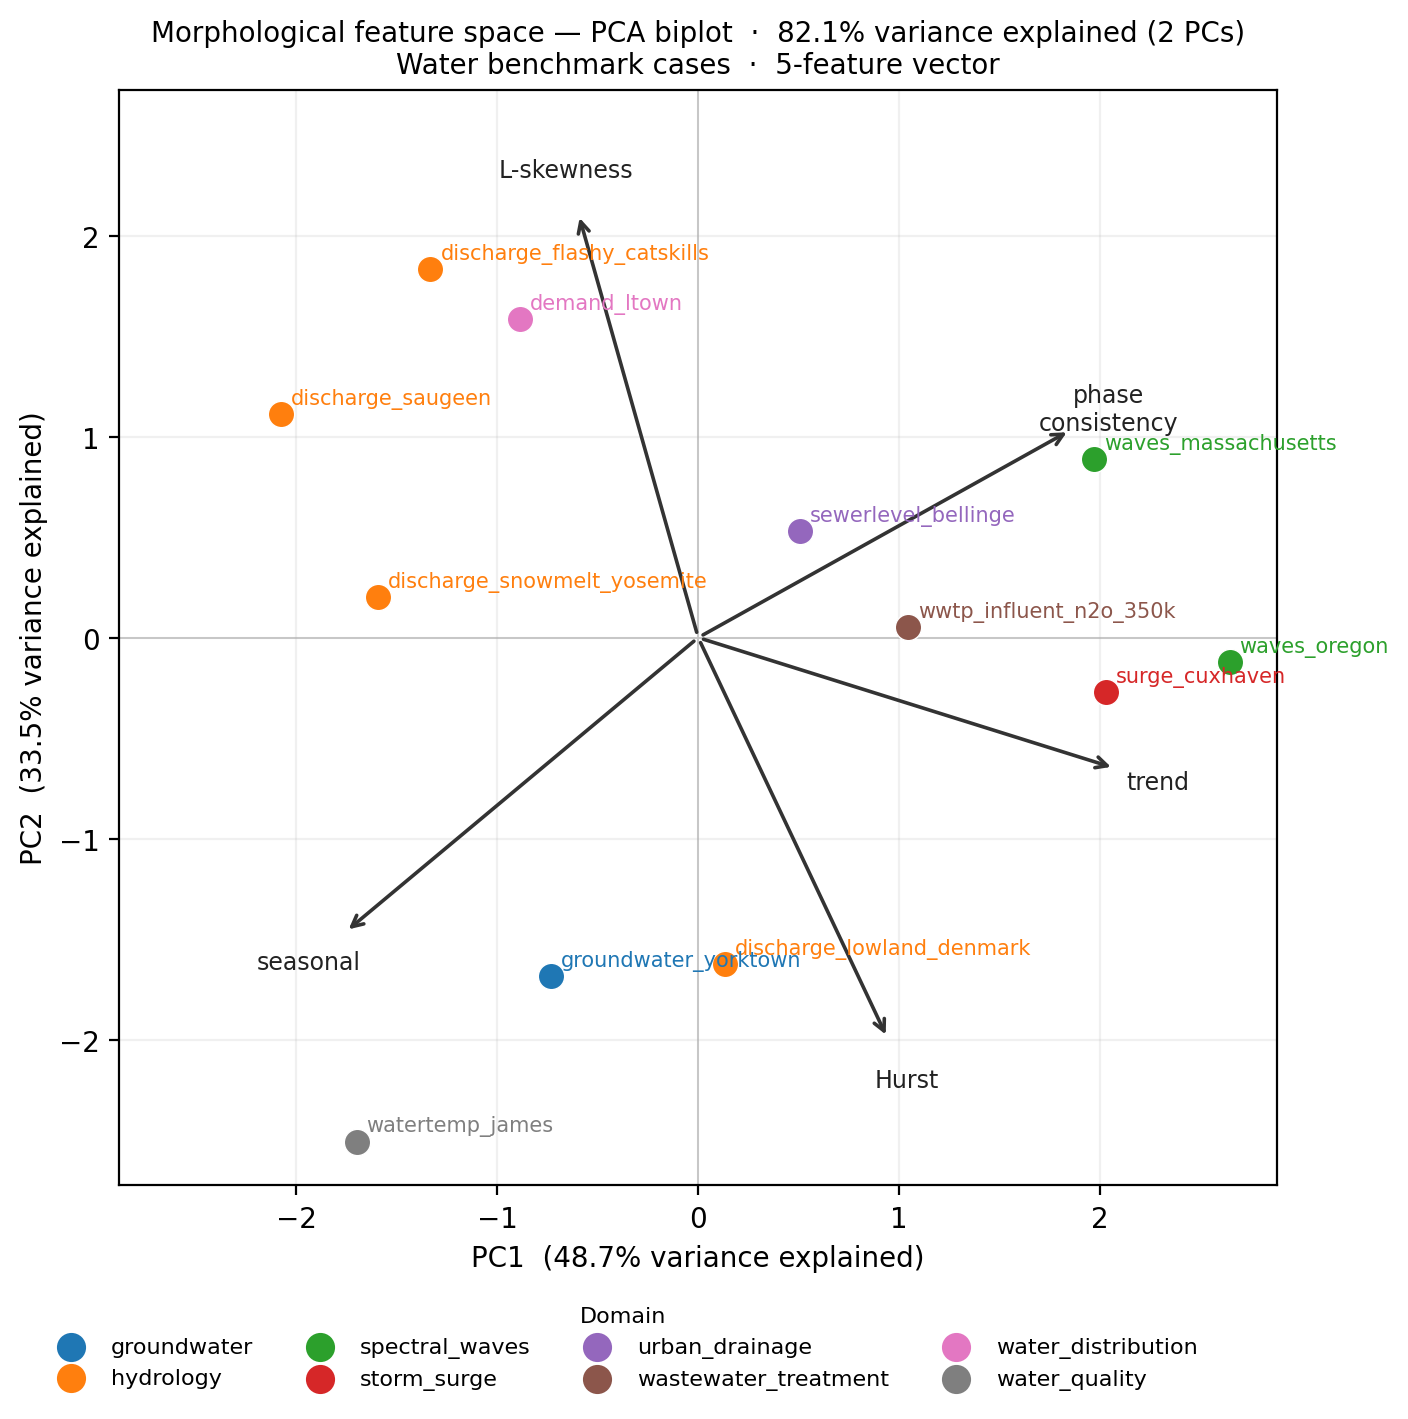
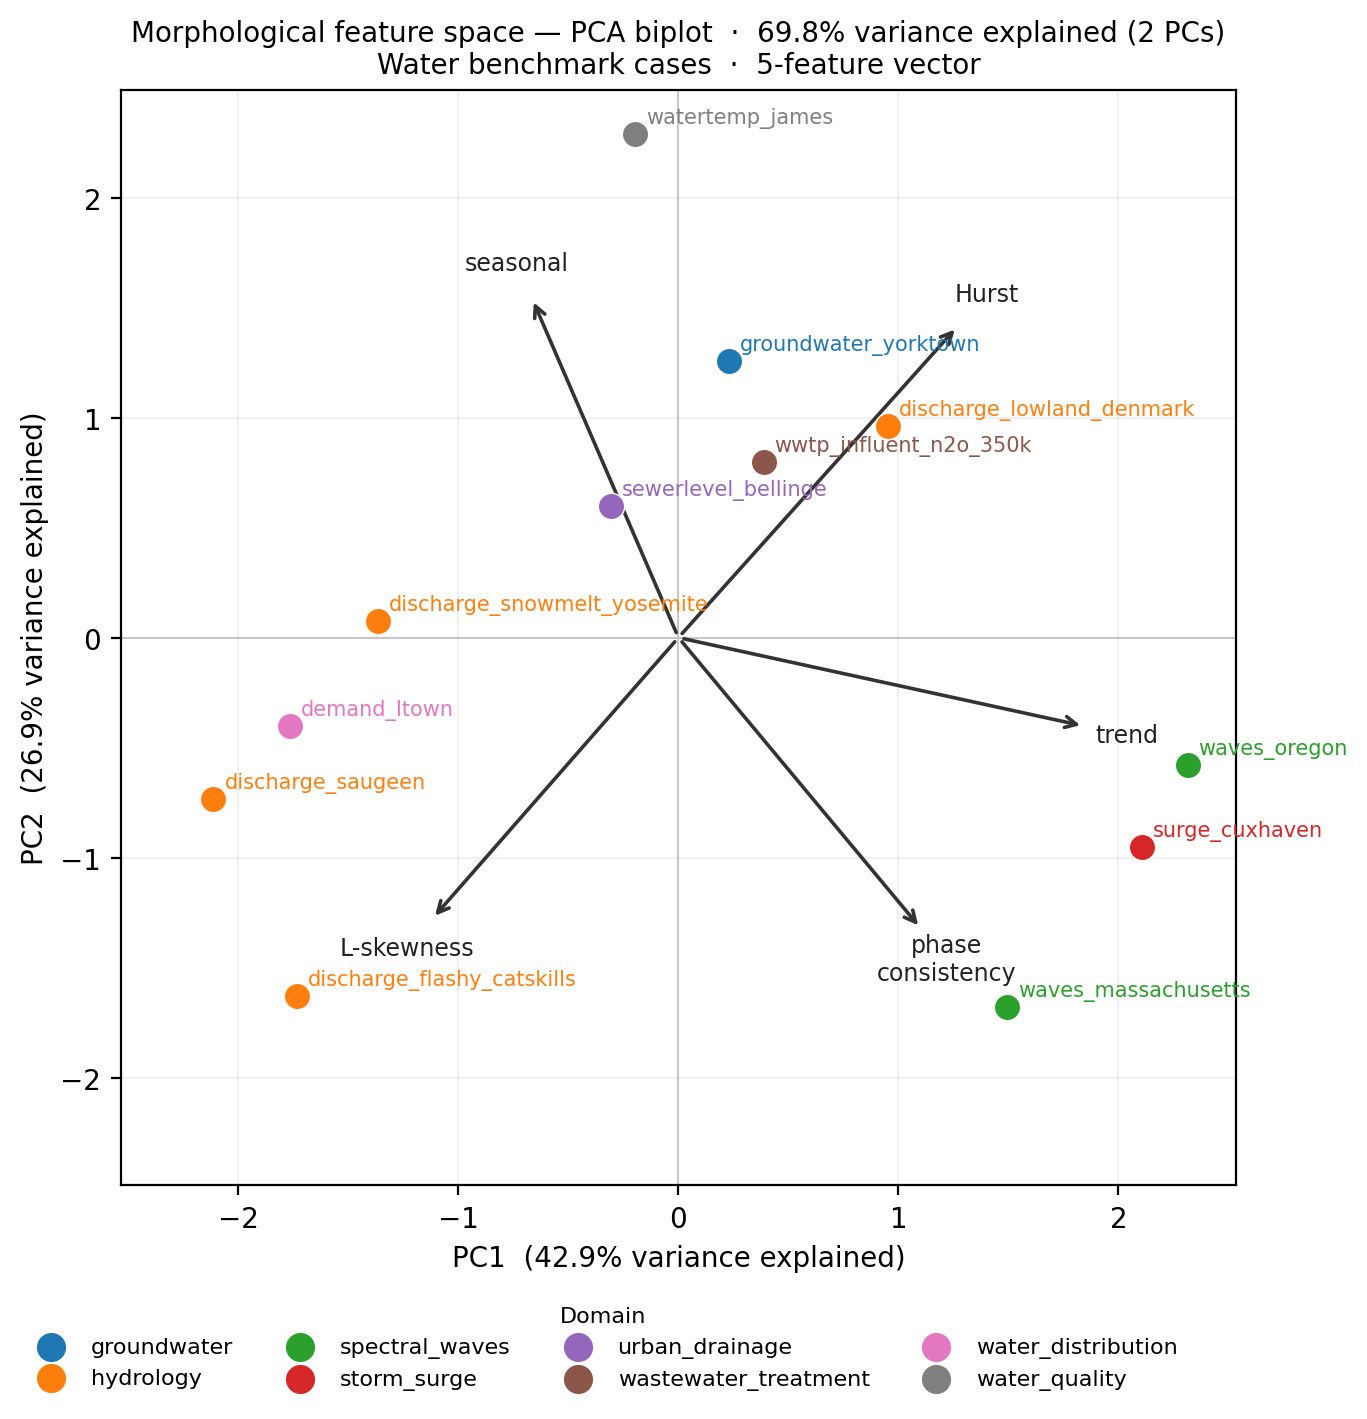
Accounting for gaps in morphology computation. (morphology-only part of f3ebb22)

diff --git a/scripts/compute_morphology.py b/scripts/compute_morphology.py
@@ -58,6 +58,20 @@ FEATURE_LABELS = {
     "l_skewness": "L-skewness",
 }
 
+# ---------------------------------------------------------------------------
+# Gap-handling thresholds
+# ---------------------------------------------------------------------------
+# Gaps of at most (max(GAP_INTERP_MIN, period * GAP_INTERP_FRAC)) consecutive
+# NaN steps are filled by linear interpolation before feature computation.
+# Longer gaps become segment boundaries.
+GAP_INTERP_FRAC: float = 1 / 12
+GAP_INTERP_MIN:  int   = 3
+
+# Segments shorter than max(MIN_SEGMENT_ABS, period * MIN_SEGMENT_FRAC) are
+# excluded from feature aggregation.
+MIN_SEGMENT_FRAC: float = 1 / 4
+MIN_SEGMENT_ABS:  int   = 20
+
 
 # ---------------------------------------------------------------------------
 # Data helpers
@@ -71,25 +85,122 @@ def _horizon_steps(case) -> int:
     return max(1, int(round(h / f)))
 
 
-def _extract_train_data(case) -> tuple[np.ndarray, np.ndarray | None]:
-    """Return (y_train, X_exog_train) from the training split.
+def _gap_aware_segments(
+    case,
+    period: int,
+    gap_interp_max: int,
+    min_segment_len: int,
+) -> tuple[list[np.ndarray], list[np.ndarray | None]]:
+    """Return gap-handled training segments as parallel lists (y_segs, X_segs).
 
-    Exogenous NaNs are filled with column means.
-    Returns None for the exog array when the case has no exogenous variables.
+    Short gaps (≤ gap_interp_max consecutive NaN steps) are filled by linear
+    interpolation in both y and exogenous columns.  Longer gaps become segment
+    boundaries.  Segments shorter than min_segment_len are discarded.
     """
     df = case.load()
-    train = case.split_frame(df)["train"]
-    mask = train["y"].notna()
-    y = train.loc[mask, "y"].to_numpy(dtype=float)
-    if not case.exogenous:
-        return y, None
-    X = train.loc[mask, case.exogenous].to_numpy(dtype=float)
-    col_means = np.nanmean(X, axis=0)
-    for j in range(X.shape[1]):
-        nan_idx = np.isnan(X[:, j])
-        if nan_idx.any():
-            X[nan_idx, j] = col_means[j]
-    return y, X
+    train = case.split_frame(df)["train"].copy()
+
+    # --- interpolate short gaps in y ---
+    y_s = train["y"].copy()
+    is_nan = y_s.isna().to_numpy()
+    # identify contiguous NaN run boundaries
+    padded = np.concatenate(([False], is_nan, [False])).view(np.int8)
+    edges = np.flatnonzero(np.diff(padded))
+    nan_starts = edges[0::2]
+    nan_ends   = edges[1::2]  # exclusive
+
+    short_gap_mask = np.zeros(len(y_s), dtype=bool)
+    for s, e in zip(nan_starts, nan_ends):
+        if (e - s) <= gap_interp_max:
+            short_gap_mask[s:e] = True
+
+    if short_gap_mask.any():
+        # temporarily mark short-gap positions; interpolate fills them
+        y_s = y_s.copy()
+        y_s[short_gap_mask] = np.nan  # already NaN, but explicit
+        y_s = y_s.interpolate(method="linear", limit_direction="both")
+        train["y"] = y_s
+
+        if case.exogenous:
+            for col in case.exogenous:
+                s_col = train[col].copy()
+                s_col[short_gap_mask] = np.nan
+                s_col = s_col.interpolate(method="linear", limit_direction="both")
+                if s_col.isna().any():
+                    s_col = s_col.fillna(s_col.mean())
+                train[col] = s_col
+
+    # --- split at remaining NaN positions ---
+    notna = train["y"].notna().to_numpy()
+    # find starts/ends of contiguous True runs
+    padded2 = np.concatenate(([False], notna, [False])).view(np.int8)
+    edges2  = np.flatnonzero(np.diff(padded2))
+    seg_starts = edges2[0::2]
+    seg_ends   = edges2[1::2]  # exclusive
+
+    y_segs: list[np.ndarray]          = []
+    X_segs: list[np.ndarray | None]   = []
+
+    for s, e in zip(seg_starts, seg_ends):
+        if (e - s) < min_segment_len:
+            continue
+        y_seg = train["y"].iloc[s:e].to_numpy(dtype=float)
+        y_segs.append(y_seg)
+        if not case.exogenous:
+            X_segs.append(None)
+        else:
+            X_seg = train[case.exogenous].iloc[s:e].to_numpy(dtype=float)
+            col_means = np.nanmean(X_seg, axis=0)
+            for j in range(X_seg.shape[1]):
+                bad = np.isnan(X_seg[:, j])
+                if bad.any():
+                    X_seg[bad, j] = col_means[j]
+            X_segs.append(X_seg)
+
+    return y_segs, X_segs
+
+
+# ---------------------------------------------------------------------------
+# Feature aggregation helpers
+# ---------------------------------------------------------------------------
+
+
+def _aggregate_features(
+    feat_dicts: list[dict[str, float]],
+    lengths: list[int],
+) -> dict[str, float]:
+    """Length-weighted average of per-segment feature dicts."""
+    total = sum(lengths)
+    agg: dict[str, float] = {}
+    for key in feat_dicts[0]:
+        agg[key] = sum(d[key] * w for d, w in zip(feat_dicts, lengths)) / total
+    return agg
+
+
+def _compute_features_segmented(
+    y_segs: list[np.ndarray],
+    X_segs: list[np.ndarray | None],
+    period: int,
+    seasonal_periods: list[int],
+    n_exog_lags: int,
+) -> tuple[dict[str, float], float]:
+    """Compute morphological features and exog_r2_gain across all segments.
+
+    Returns (feature_dict, exog_gain) aggregated by length-weighted average.
+    """
+    feat_dicts: list[dict[str, float]] = []
+    gains: list[float] = []
+    lengths: list[int] = []
+
+    for y_seg, X_seg in zip(y_segs, X_segs):
+        feat_dicts.append(compute_features_all(y_seg, period, seasonal_periods=seasonal_periods))
+        gains.append(exog_r2_gain(y_seg, X_seg, period, n_exog_lags, poly_degree=2))
+        lengths.append(len(y_seg))
+
+    feats = _aggregate_features(feat_dicts, lengths)
+    total = sum(lengths)
+    gain  = sum(g * w for g, w in zip(gains, lengths)) / total
+    return feats, gain
 
 
 # ---------------------------------------------------------------------------
@@ -284,16 +395,24 @@ def main() -> int:
         if not case.parquet_path.exists():
             print(f"[{case_id}] no parquet — skipping.")
             continue
-        print(f"[{case_id}] computing ...", end="  ", flush=True)
-        y, X_exog = _extract_train_data(case)
         period = period_for_freq(case.freq)
         seasonal_periods = seasonal_periods_for_freq(case.freq)
-        feats = compute_features_all(y, period, seasonal_periods=seasonal_periods)
+        gap_interp_max  = max(GAP_INTERP_MIN,  int(period * GAP_INTERP_FRAC))
+        min_segment_len = max(MIN_SEGMENT_ABS, int(period * MIN_SEGMENT_FRAC))
+        y_segs, X_segs = _gap_aware_segments(case, period, gap_interp_max, min_segment_len)
+        if not y_segs:
+            print(f"[{case_id}] no segments meet min_segment_len={min_segment_len} — skipping.")
+            continue
+        n_segs = len(y_segs)
+        print(f"[{case_id}] {n_segs} seg(s), gap_interp_max={gap_interp_max} ...", end="  ", flush=True)
         n_exog_lags = min(_horizon_steps(case), 30)
-        exog_gains[case_id] = exog_r2_gain(y, X_exog, period, n_exog_lags, poly_degree=2)
+        feats, gain = _compute_features_segmented(
+            y_segs, X_segs, period, seasonal_periods, n_exog_lags
+        )
+        exog_gains[case_id] = gain
         records[case_id] = feats
         domains[case_id] = case.domain
-        print("  ".join(f"{k}={v:+.3f}" for k, v in feats.items()) + f"  exog_r2_gain={exog_gains[case_id]:+.3f}")
+        print("  ".join(f"{k}={v:+.3f}" for k, v in feats.items()) + f"  exog_r2_gain={gain:+.3f}")
 
     if not records:
         print("No cases with processed parquet found — nothing to do.")
